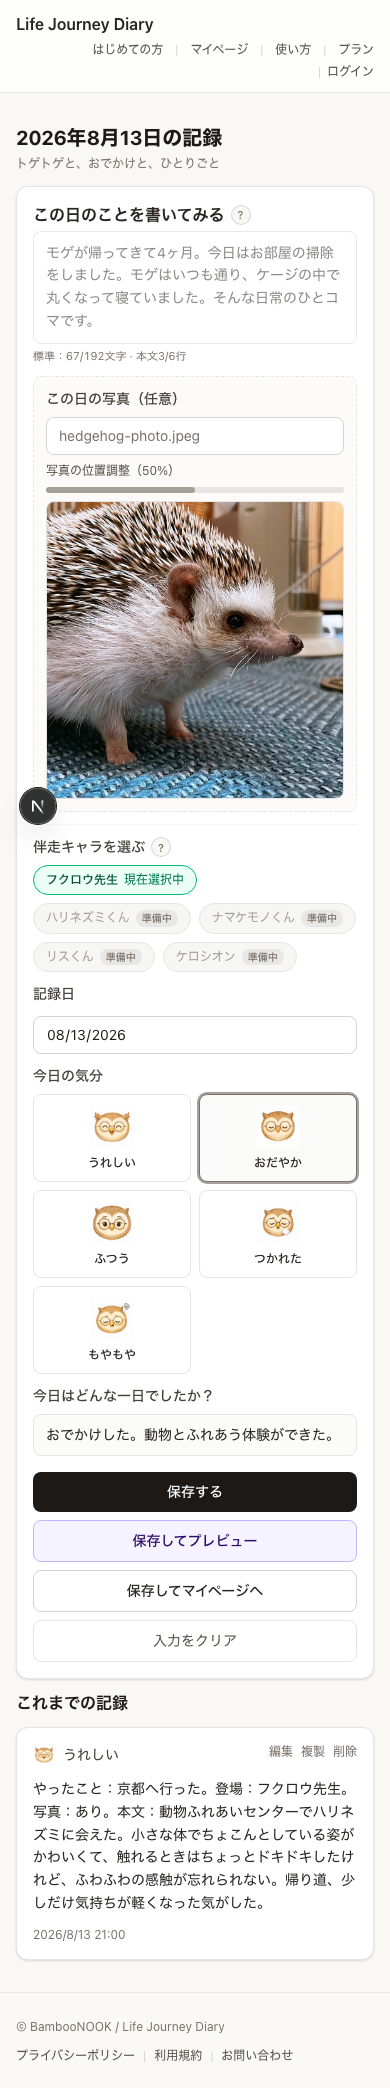
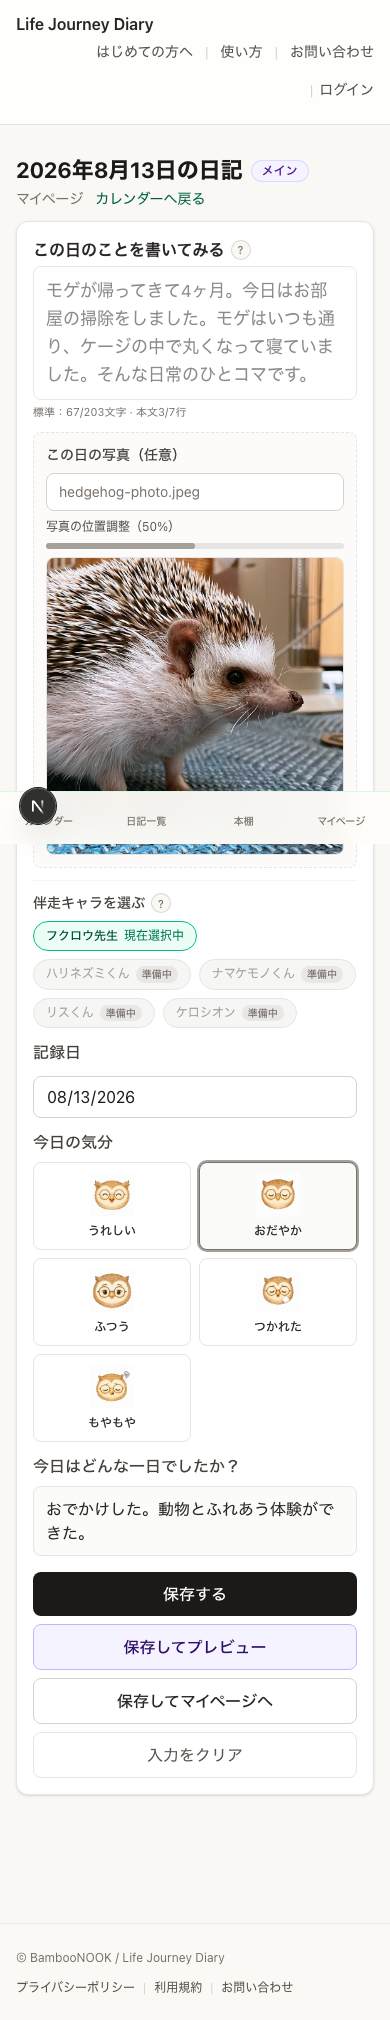
Refresh top journal mock screenshot for current diary UI.
Remove the legacy previous-entries block, show bottom navigation in capture previews, and regenerate the 390px journal mock image.

diff --git a/src/components/home/HomeMockJournalCapture.tsx b/src/components/home/HomeMockJournalCapture.tsx
@@ -19,19 +19,12 @@ import {
   formatJournalRecordPageTitle,
   journalBodyInputHeading,
 } from "@/lib/journal/journalRecordDateDisplay";
-import { formatDateTimeJa } from "@/lib/date/formatJa";
-import { getMoodMeta, moodOptions, type MoodId } from "@/lib/journal/meta";
+import { moodOptions, type MoodId } from "@/lib/journal/meta";
 
 const DEMO_ENTRY_DATE = "2026-08-13";
 const DEMO_CONTENT =
   "モゲが帰ってきて4ヶ月。今日はお部屋の掃除をしました。モゲはいつも通り、ケージの中で丸くなって寝ていました。そんな日常のひとコマです。";
 const DEMO_ACTIVITY_ANSWER = "おでかけした。動物とふれあう体験ができた。";
-const DEMO_PREVIOUS_ENTRY = {
-  mood: "happy" as MoodId,
-  summary:
-    "やったこと：京都へ行った。登場：フクロウ先生。写真：あり。本文：動物ふれあいセンターでハリネズミに会えた。小さな体でちょこんとしている姿がかわいくて、触れるときはちょっとドキドキしたけれど、ふわふわの感触が忘れられない。帰り道、少しだけ気持ちが軽くなった気がした。",
-  createdAt: "2026-08-13T12:00:00.000Z",
-};
 
 const DEMO_PHOTO_SRC = "/images/home-mock/demo-journal-photo.png";
 
@@ -49,15 +42,21 @@ export function HomeMockJournalCapture() {
   return (
     <div className="relative space-y-3">
       <div className="space-y-1">
-        <h1 className="text-xl font-bold leading-tight text-stone-900 sm:text-2xl">
-          {recordPageTitle}
-        </h1>
-        <p className="text-xs leading-relaxed text-stone-500">
-          トゲトゲと、おでかけと、ひとりごと
+        <div className="flex flex-wrap items-center gap-2">
+          <h1 className="text-[1.375rem] font-bold leading-tight text-stone-900 sm:text-[1.75rem]">
+            {recordPageTitle}
+          </h1>
+          <span className="rounded-full border border-violet-200/90 bg-violet-50 px-2.5 py-0.5 text-xs font-medium text-violet-900">
+            メイン
+          </span>
+        </div>
+        <p className="flex flex-wrap items-center gap-x-3 text-sm text-stone-500">
+          <span className="underline-offset-2">マイページ</span>
+          <span className="text-emerald-800 underline-offset-2">カレンダーへ戻る</span>
         </p>
       </div>
 
-      <div className="space-y-3 rounded-xl border border-stone-200 bg-white p-4 shadow-sm sm:p-5">
+      <form className="space-y-3 rounded-xl border border-stone-200 bg-white p-4 shadow-sm sm:p-5">
         <JournalWritingComposer
           label={
             <FieldLabelWithHelp
@@ -111,7 +110,7 @@ export function HomeMockJournalCapture() {
         <div className="space-y-3 border-t border-stone-100 pt-3">
           <JournalCompanionPicker disabled />
 
-          <label className="block text-sm font-medium text-stone-700" htmlFor="home-mock-entry-date">
+          <label className="block text-base font-medium text-stone-700" htmlFor="home-mock-entry-date">
             記録日
           </label>
           <input
@@ -119,11 +118,11 @@ export function HomeMockJournalCapture() {
             type="date"
             value={DEMO_ENTRY_DATE}
             readOnly
-            className="w-full rounded-lg border border-stone-300 px-3 py-2 text-sm text-stone-900 outline-none"
+            className="w-full rounded-lg border border-stone-300 px-3 py-2 text-base text-stone-900 outline-none"
           />
 
           <fieldset>
-            <legend className="mb-2 block text-sm font-medium text-stone-700">今日の気分</legend>
+            <legend className="mb-2 block text-base font-medium text-stone-700">今日の気分</legend>
             <div
               className="grid grid-cols-2 gap-2 sm:grid-cols-3 md:grid-cols-5"
               role="radiogroup"
@@ -152,8 +151,8 @@ export function HomeMockJournalCapture() {
           </fieldset>
 
           <div>
-            <p className="text-sm font-medium text-stone-700">今日はどんな一日でしたか？</p>
-            <p className="mt-2 rounded-lg border border-stone-200 bg-stone-50/80 px-3 py-2.5 text-sm text-stone-800">
+            <p className="text-base font-medium text-stone-700">今日はどんな一日でしたか？</p>
+            <p className="mt-2 rounded-lg border border-stone-200 bg-stone-50/80 px-3 py-2.5 text-base text-stone-800">
               {DEMO_ACTIVITY_ANSWER}
             </p>
           </div>
@@ -162,53 +161,30 @@ export function HomeMockJournalCapture() {
         <div className="flex flex-col gap-2 pt-1 sm:flex-row sm:flex-wrap">
           <button
             type="button"
-            className="rounded-lg bg-stone-900 px-4 py-2.5 text-sm font-medium text-white"
+            className="rounded-lg bg-stone-900 px-4 py-2.5 text-base font-medium text-white"
           >
             保存する
           </button>
           <button
             type="button"
-            className="rounded-lg border border-violet-300 bg-violet-50 px-4 py-2.5 text-sm font-medium text-violet-950"
+            className="rounded-lg border border-violet-300 bg-violet-50 px-4 py-2.5 text-base font-medium text-violet-950"
           >
             保存してプレビュー
           </button>
           <button
             type="button"
-            className="rounded-lg border border-stone-300 bg-white px-4 py-2.5 text-sm font-medium text-stone-800"
+            className="rounded-lg border border-stone-300 bg-white px-4 py-2.5 text-base font-medium text-stone-800"
           >
             保存してマイページへ
           </button>
           <button
             type="button"
-            className="rounded-lg border border-stone-200 bg-white px-4 py-2.5 text-sm text-stone-600"
+            className="rounded-lg border border-stone-200 bg-white px-4 py-2.5 text-base text-stone-600"
           >
             入力をクリア
           </button>
         </div>
-      </div>
-
-      <section className="space-y-3">
-        <h2 className="text-base font-semibold text-stone-900">これまでの記録</h2>
-        <article className="rounded-xl border border-stone-200 bg-white p-4 shadow-sm">
-          <div className="flex flex-wrap items-start justify-between gap-2">
-            <div className="flex items-center gap-2 text-sm text-stone-700">
-              <MoodOwlIcon moodId={DEMO_PREVIOUS_ENTRY.mood} sizePx={22} className="shrink-0" />
-              <span>{getMoodMeta(DEMO_PREVIOUS_ENTRY.mood).label}</span>
-            </div>
-            <div className="flex gap-2 text-xs text-stone-500">
-              <span>編集</span>
-              <span>複製</span>
-              <span>削除</span>
-            </div>
-          </div>
-          <p className="mt-3 whitespace-pre-wrap text-sm leading-relaxed text-stone-800">
-            {DEMO_PREVIOUS_ENTRY.summary}
-          </p>
-          <p className="mt-3 text-xs text-stone-500">
-            {formatDateTimeJa(new Date(DEMO_PREVIOUS_ENTRY.createdAt))}
-          </p>
-        </article>
-      </section>
+      </form>
     </div>
   );
 }

diff --git a/src/app/home-mock-preview/layout.tsx b/src/app/home-mock-preview/layout.tsx
@@ -1,0 +1,6 @@
+import { DiaryLoggedInPageShell } from "@/components/journal/DiaryLoggedInPageShell";
+
+/** トップ用モック撮影：日記画面と同じ下部メニューを含める */
+export default function HomeMockPreviewLayout({ children }: { children: React.ReactNode }) {
+  return <DiaryLoggedInPageShell>{children}</DiaryLoggedInPageShell>;
+}

diff --git a/src/lib/home/homeProductMockAssets.ts b/src/lib/home/homeProductMockAssets.ts
@@ -44,7 +44,7 @@ export const HOME_PRODUCT_MOCK_STEPS: HomeProductMockStep[] = [
     imageSrc: HOME_PRODUCT_MOCK_IMAGES.journalEntry,
     imageAlt: "日記入力画面",
     imageWidth: 390,
-    imageHeight: 2088,
+    imageHeight: 2020,
     frame: "phone",
   },
   {
